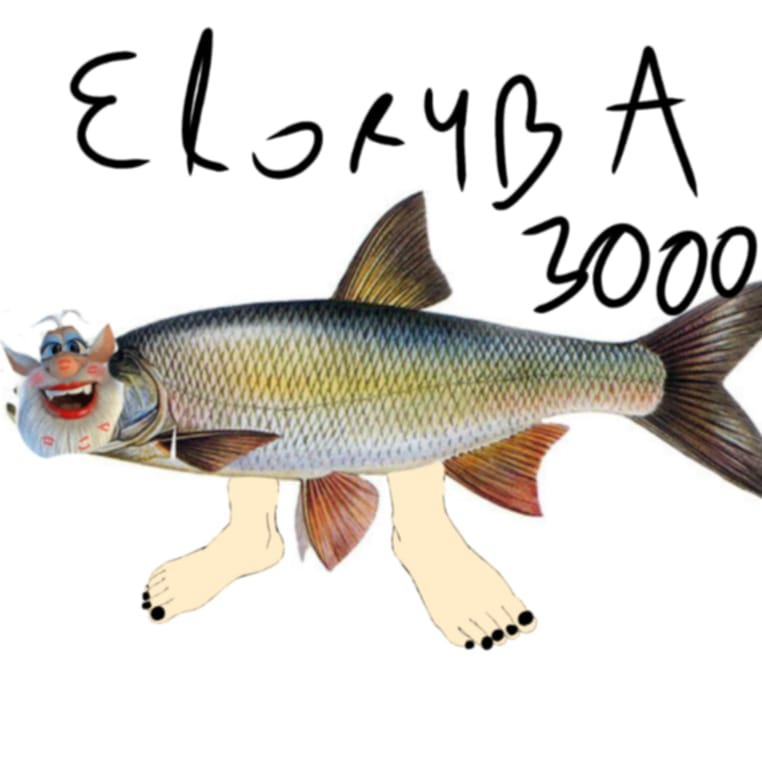
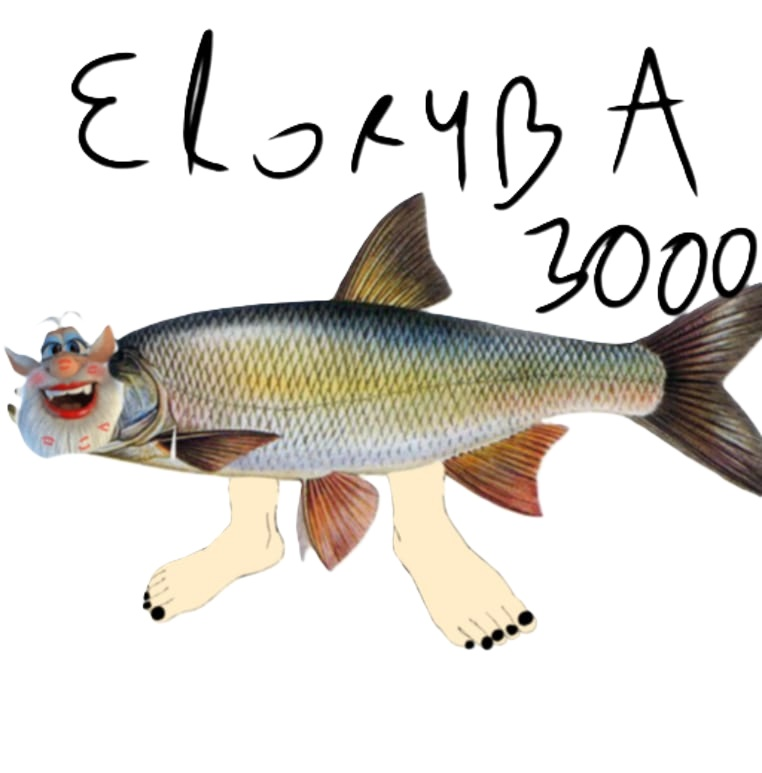
feat: implement enemy AI, unique boss drops, and chroma key for JPG assets

diff --git a/src/Game.js b/src/Game.js
@@ -142,7 +142,7 @@ function generateLevel(levelNum) {
 
     // 7. Spawn Wrogów (Skalowanie z poziomem)
     let enemiesCount = 0;
-    const maxEnemies = 20 + (levelNum * 5);
+    const maxEnemies = 10 + (levelNum * 2);
     
     while(enemiesCount < maxEnemies) {
         const ex = Math.floor(Math.random() * config.mapSize);
@@ -229,6 +229,81 @@ function update() {
             // alert(`Schodzisz głębiej... Poziom ${state.level}`);
             generateLevel(state.level);
         }
+    }
+
+    // --- ENEMY AI ---
+    const now = Date.now();
+    state.enemies.forEach(enemy => {
+        // Init properties if missing
+        if (!enemy.lastAttackTime) enemy.lastAttackTime = 0;
+        if (!enemy.speed) enemy.speed = 0.03 + (Math.random() * 0.02); // Slight variation
+        
+        // Simple Patrol Logic
+        if (!enemy.patrolTarget) enemy.patrolTarget = null;
+
+        const distToPlayer = Math.sqrt((state.player.x - enemy.x)**2 + (state.player.y - enemy.y)**2);
+
+        if (distToPlayer < 8) { // AGGRO RANGE
+            enemy.patrolTarget = null; // Forget patrol
+            
+            if (distToPlayer > 1.2) { // CHASE
+                const edx = state.player.x - enemy.x;
+                const edy = state.player.y - enemy.y;
+                enemy.x += (edx / distToPlayer) * enemy.speed;
+                enemy.y += (edy / distToPlayer) * enemy.speed;
+            } else { // ATTACK
+                if (now - enemy.lastAttackTime > 1000) { // 1 sec cooldown
+                    enemy.lastAttackTime = now;
+                    // Calc damage
+                    let dmg = 5 + (state.level * 2); // Scaling damage
+                    if (enemy.type === 'uytek') dmg *= 1.5;
+                    if (enemy.type === 'eloryba3000') dmg *= 2.0;
+                    
+                    state.player.hp -= Math.floor(dmg);
+                    console.log(`${enemy.name || 'Wróg'} atakuje! Obrażenia: ${Math.floor(dmg)}. HP: ${state.player.hp}`);
+                    
+                    // Visual feedback could go here (screen shake etc)
+                }
+            }
+        } else { // PATROL (Random Wander)
+            if (!enemy.patrolTarget && Math.random() < 0.02) {
+                // Pick random point nearby
+                const rx = enemy.x + (Math.random() * 6 - 3);
+                const ry = enemy.y + (Math.random() * 6 - 3);
+                // Basic bounds check
+                if (rx > 1 && rx < config.mapSize-1 && ry > 1 && ry < config.mapSize-1) {
+                     enemy.patrolTarget = { x: rx, y: ry };
+                }
+            }
+            
+            if (enemy.patrolTarget) {
+                const pdx = enemy.patrolTarget.x - enemy.x;
+                const pdy = enemy.patrolTarget.y - enemy.y;
+                const pdist = Math.sqrt(pdx*pdx + pdy*pdy);
+                
+                if (pdist > enemy.speed) {
+                    enemy.x += (pdx / pdist) * (enemy.speed * 0.5); // Walk slower when patrolling
+                    enemy.y += (pdy / pdist) * (enemy.speed * 0.5);
+                } else {
+                    enemy.patrolTarget = null; // Arrived
+                }
+            }
+        }
+    });
+
+    // Check Game Over
+    if (state.player.hp <= 0) {
+        state.player.hp = 0;
+        // Simple Game Over handling
+        // For now, just a console log or maybe a reload if we want to be harsh
+        // console.log("GAME OVER");
+        // alert("GAME OVER!"); 
+        // window.location.reload(); 
+        // Commented out alert to avoid loop, but let's reset to safe spawn
+        state.player.x = 20;
+        state.player.y = 20;
+        state.player.hp = state.player.maxHp;
+        console.log("GAME OVER - RESPAWN");
     }
 
     // Kamera

diff --git a/src/Assets.js b/src/Assets.js
@@ -20,7 +20,7 @@ export const sprites = {
     rockUytek: null
 };
 
-function prerenderImage(img, width, height, filter = null) {
+function prerenderImage(img, width, height, filter = null, removeBackground = false) {
     const buffer = document.createElement('canvas');
     buffer.width = width;
     buffer.height = height;
@@ -31,6 +31,27 @@ function prerenderImage(img, width, height, filter = null) {
     }
     
     bCtx.drawImage(img, 0, 0, width, height);
+
+    if (removeBackground) {
+        try {
+            const imageData = bCtx.getImageData(0, 0, width, height);
+            const data = imageData.data;
+            // Loop through pixels
+            for (let i = 0; i < data.length; i += 4) {
+                const r = data[i];
+                const g = data[i + 1];
+                const b = data[i + 2];
+                // If pixel is light enough (white paper), make it transparent
+                if (r > 200 && g > 200 && b > 200) {
+                    data[i + 3] = 0; // Alpha = 0
+                }
+            }
+            bCtx.putImageData(imageData, 0, 0);
+        } catch (e) {
+            console.warn("Chroma Key failed (CORS? Use local server):", e);
+        }
+    }
+
     return buffer;
 }
 
@@ -107,8 +128,8 @@ function processSprites() {
     try { sprites.player = prerenderImage(images.player, 40, 60); } catch(e) { console.warn("Player error", e); }
     try { sprites.skeleton = prerenderImage(images.skeleton, 40, 60); } catch(e) { console.warn("Skeleton error", e); }
     try { sprites.spider = prerenderImage(images.spider, 40, 40); } catch(e) { console.warn("Spider error", e); }
-    try { sprites.uytek = prerenderImage(images.uytek, 40, 40); } catch(e) { console.warn("Uytek error", e); }
-    try { sprites.eloryba3000 = prerenderImage(images.eloryba3000, 60, 40); } catch(e) { console.warn("Eloryba error", e); }
+    try { sprites.uytek = prerenderImage(images.uytek, 40, 40, null, true); } catch(e) { console.warn("Uytek error", e); }
+    try { sprites.eloryba3000 = prerenderImage(images.eloryba3000, 60, 40, null, true); } catch(e) { console.warn("Eloryba error", e); }
     try { sprites.potion = prerenderImage(images.potion, 32, 32); } catch(e) { console.warn("Potion error", e); }
     try { sprites.sack = prerenderImage(images.sack, 32, 32); } catch(e) { console.warn("Sack error", e); }
     

diff --git a/src/Input.js b/src/Input.js
@@ -1,6 +1,6 @@
 import { config } from './Config.js';
 import { state } from './GameState.js';
-import { isoToCartesian, generateRandomItem } from './Utils.js';
+import { isoToCartesian, generateRandomItem, generateBossItem } from './Utils.js';
 import { refreshLootUI } from './UI.js';
 import { initAudio, sfx } from './Audio.js';
 
@@ -47,9 +47,26 @@ export function initInput() {
             if (enemy.hp <= 0) {
                 sfx.kill();
                 state.enemies = state.enemies.filter(e => e !== enemy);
+                
+                let drops = [];
+                // Boss Drop Logic
+                if (enemy.type === 'uytek' || enemy.type === 'eloryba3000') {
+                     drops.push(generateBossItem(enemy.type));
+                     // Bonus Large Potion
+                     drops.push({ 
+                        name: "Wielka Mikstura", 
+                        type: 'potion', 
+                        icon: 'assets/item_potion.svg', // Reusing SVG for now
+                        description: "Odnawia 100 HP",
+                        healAmount: 100
+                    });
+                } else {
+                     drops.push(generateRandomItem());
+                }
+
                 state.lootBags.push({
                     x: enemy.x, y: enemy.y,
-                    items: [ generateRandomItem() ]
+                    items: drops
                 });
                 console.log("Wróg zabity!");
             }

diff --git a/src/Utils.js b/src/Utils.js
@@ -50,3 +50,28 @@ export function generateRandomItem() {
         };
     }
 }
+
+export function generateBossItem(bossType) {
+    if (bossType === 'uytek') {
+        return {
+            name: "Włócznia Uyteka",
+            type: 'equipment',
+            slot: 'mainhand',
+            icon: 'assets/item_sword.svg',
+            stats: { str: 15, dex: 5 }, // Stronger than base
+            description: "Broń legendarnego Uyteka. +15 STR, +5 DEX",
+            isUnique: true
+        };
+    } else if (bossType === 'eloryba3000') {
+        return {
+            name: "Łuska EloRyby",
+            type: 'equipment',
+            slot: 'chest',
+            icon: 'assets/item_armor.svg',
+            stats: { hp: 100 }, // Massive tank boost
+            description: "Lśniąca i twarda. +100 HP",
+            isUnique: true
+        };
+    }
+    return generateRandomItem();
+}

diff --git a/src/UI.js b/src/UI.js
@@ -169,7 +169,8 @@ window.useItem = function(index) {
     
     if (item.type === 'potion') {
         sfx.potion(); 
-        state.player.hp = Math.min(state.player.hp + 20, state.player.maxHp);
+        const heal = item.healAmount || 20;
+        state.player.hp = Math.min(state.player.hp + heal, state.player.maxHp);
         state.player.inventory.splice(index, 1);
         refreshInventoryUI();
     }
